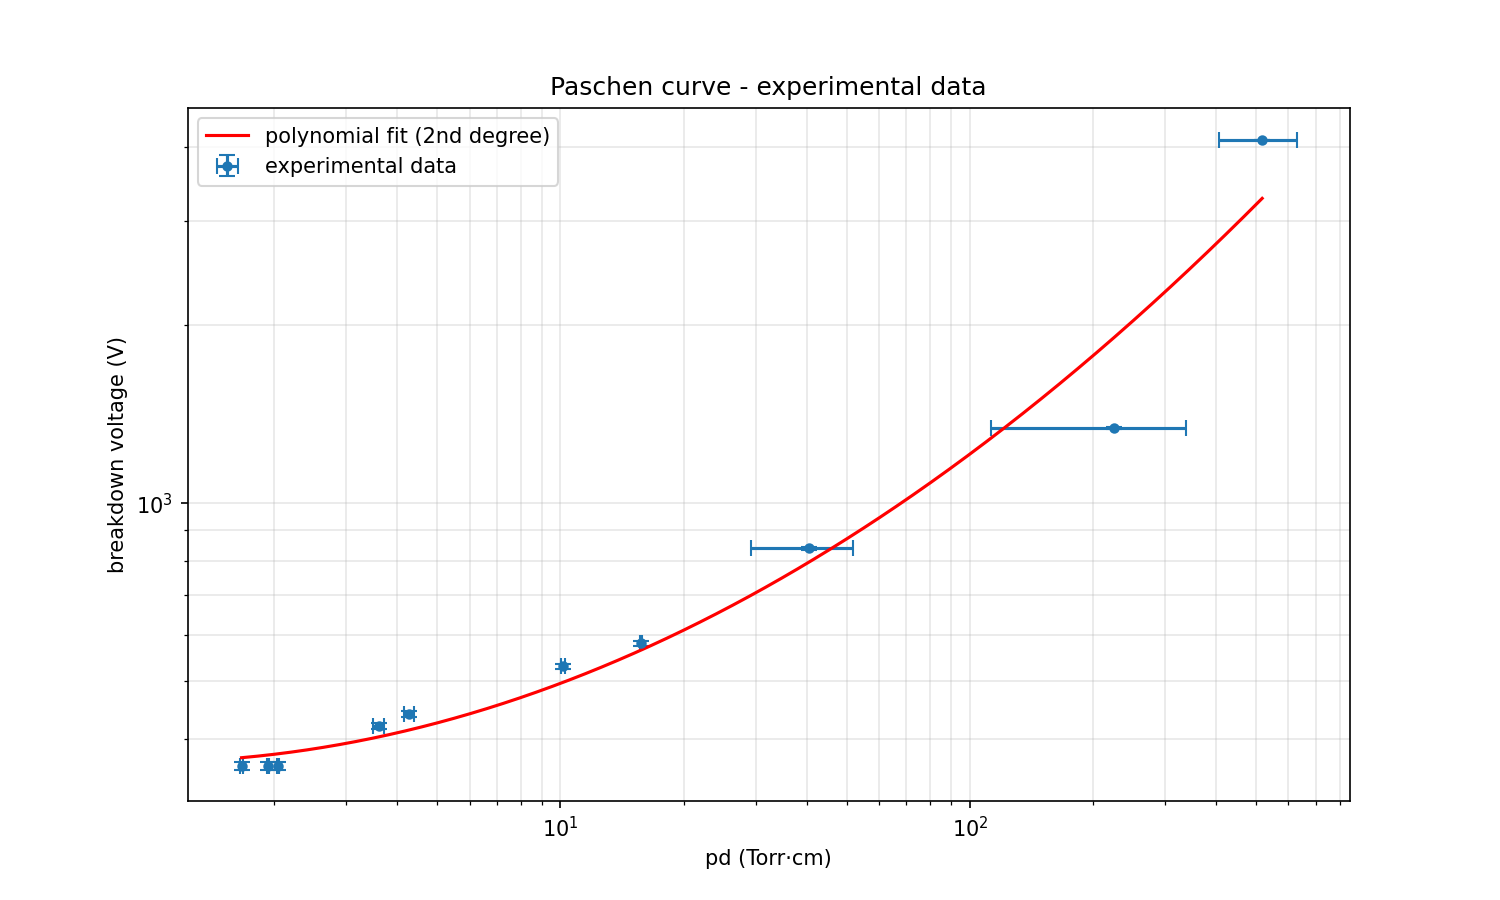
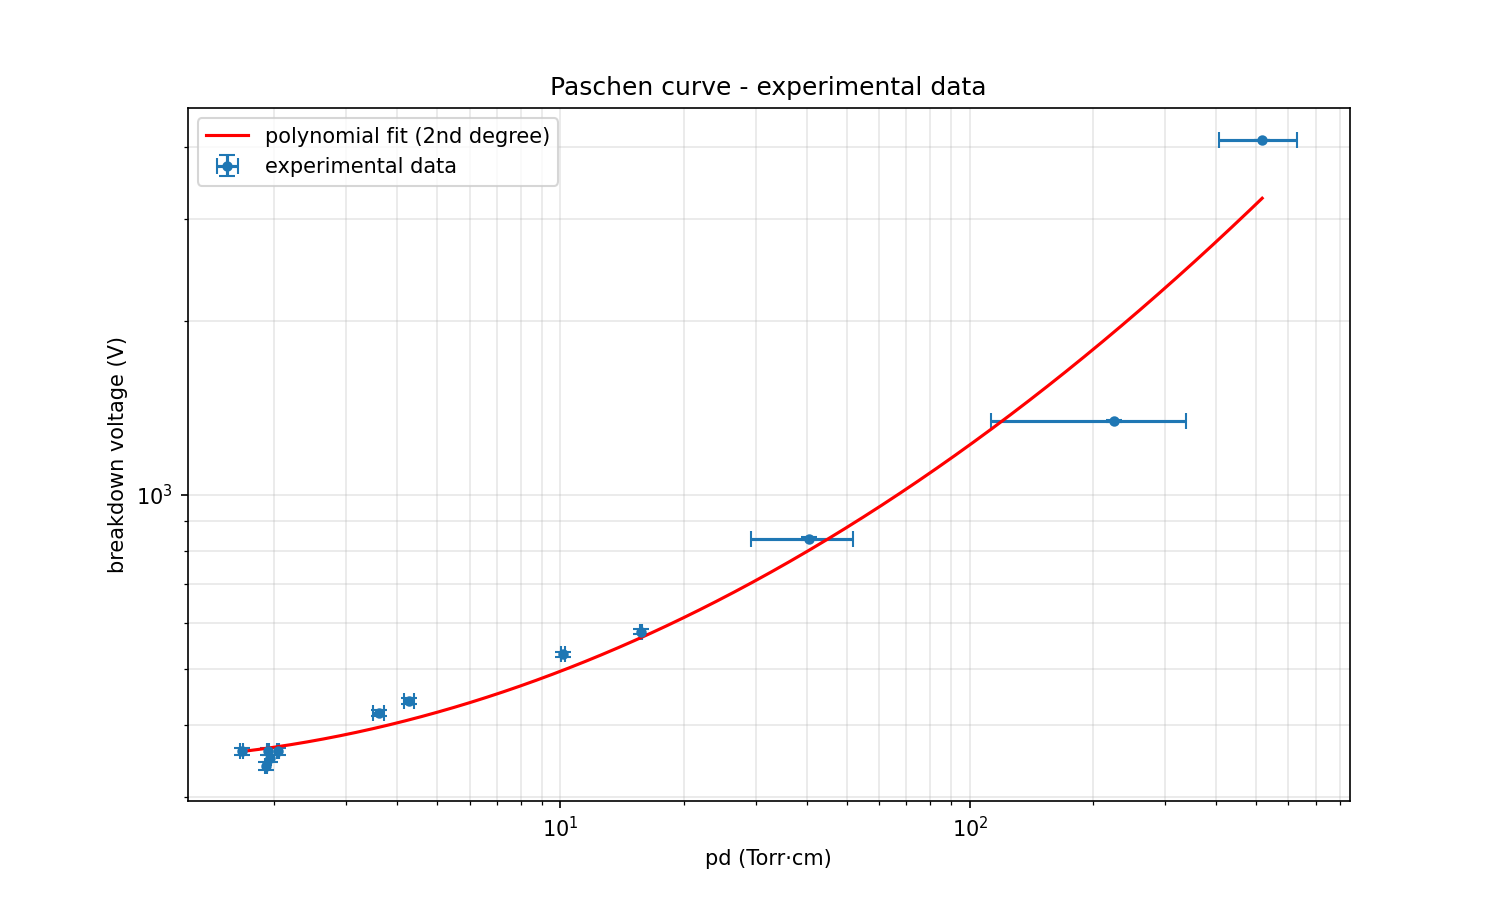
new run

diff --git a/IECsim/physics_calcs/paschenplot_only.py b/IECsim/physics_calcs/paschenplot_only.py
@@ -9,7 +9,7 @@ df = pd.read_csv('pschen.csv')
 df['pressure_mTorr'] = df['Pressure/mbar'] * 750.062
 df['voltage_V'] = df['Striking Voltage/kV'] * 1000
 df['pd'] = (df['pressure_mTorr'] / 1000) * 3  # pressure in Torr × d in cm
-pressure_abs_uncs_mBar = [0.05,0.05,0.05,0.05,5,50,50,0.005,0.005,0.005]
+pressure_abs_uncs_mBar = [0.05,0.05,0.05,0.05,5,50,50,0.005,0.005,0.005, 0.005, 0.005]
 voltage_abs_unc_kV = 0.005
 # convert to matching units
 
